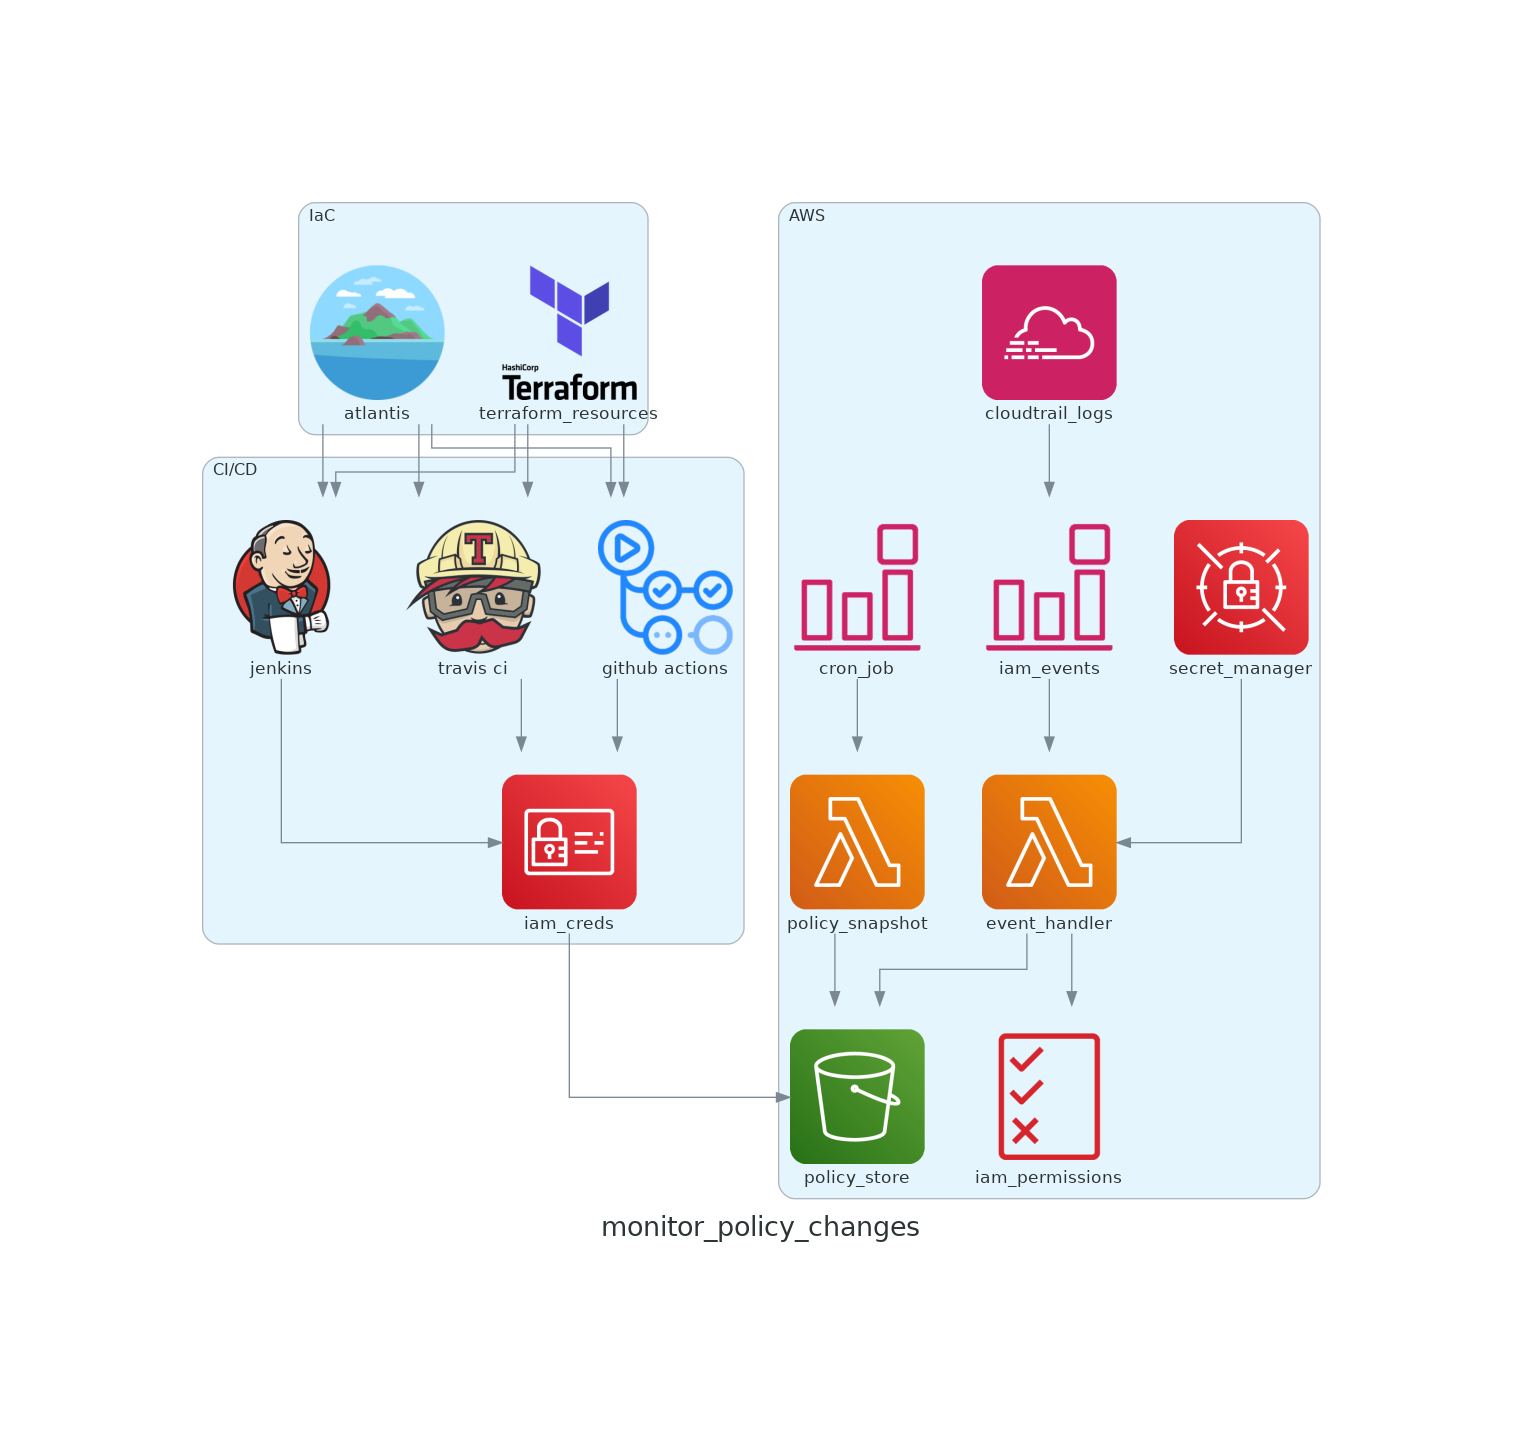
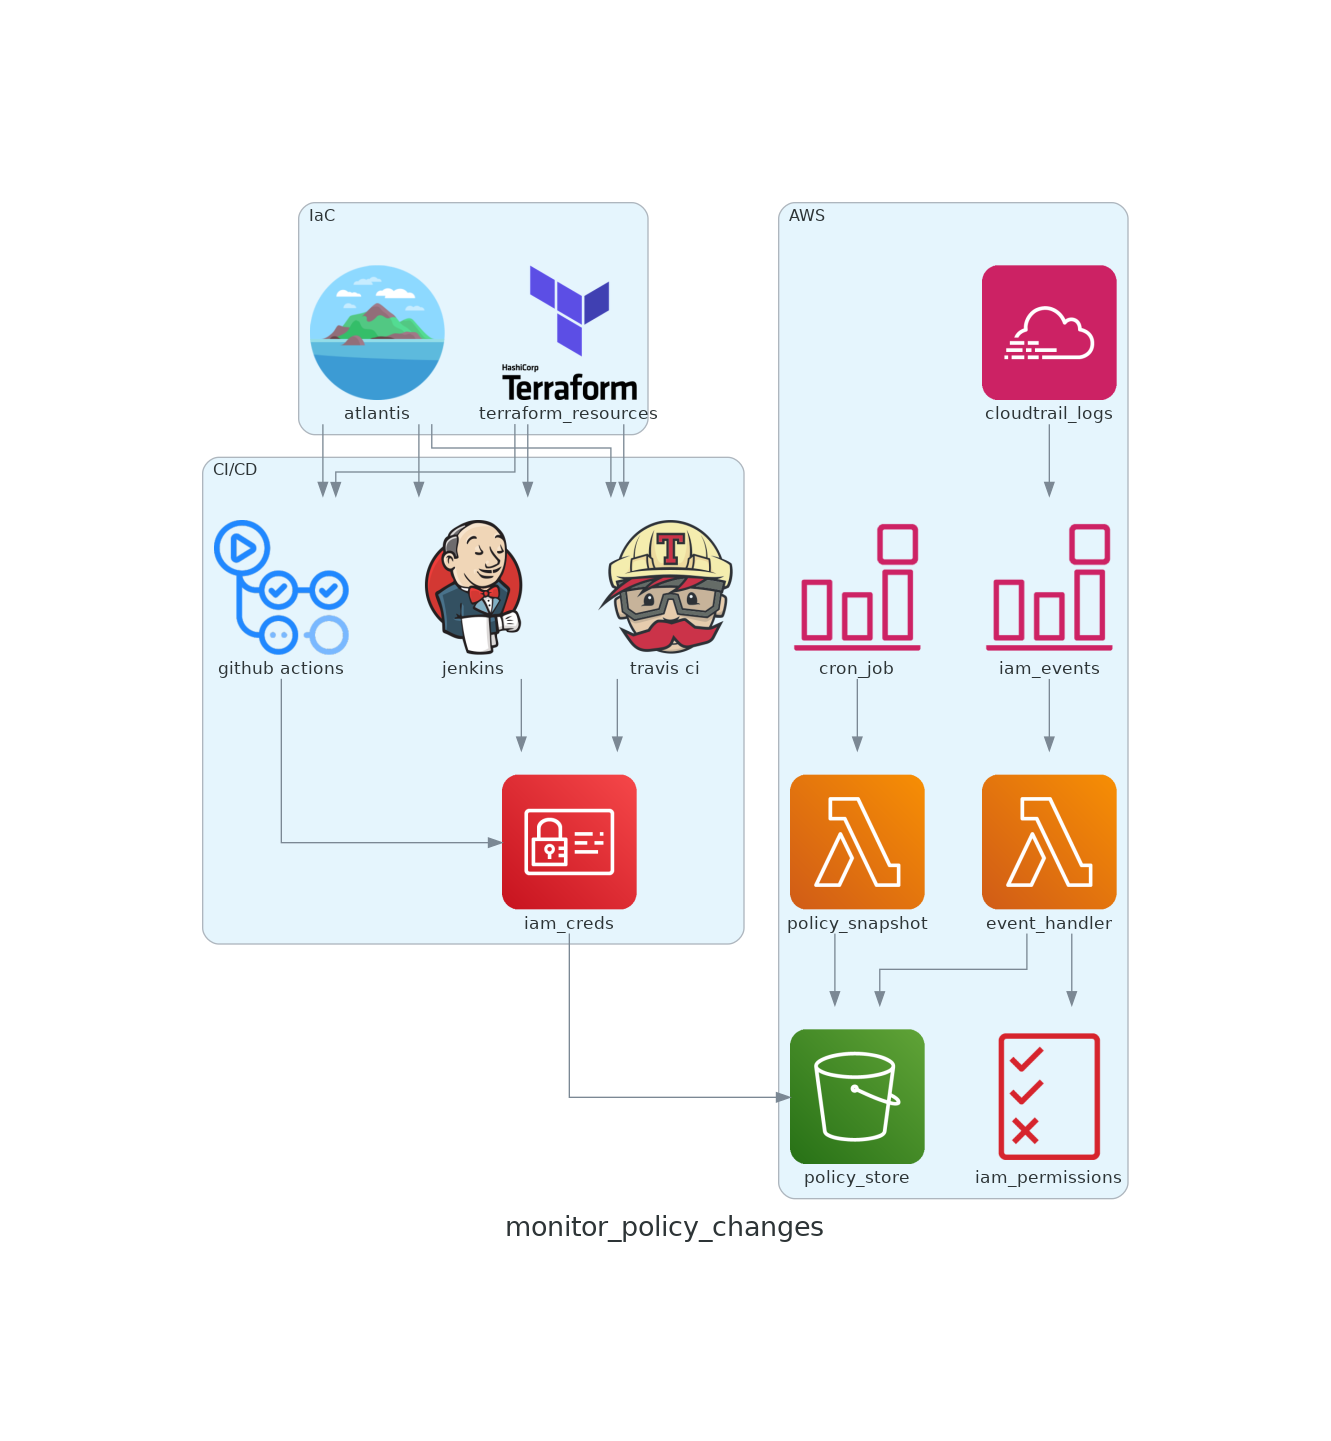
bumped image version

Changed region(s): [[0.1232, 0.1249, 0.8933, 0.8744]]

diff --git a/src/app/diagram/main.py b/src/app/diagram/main.py
@@ -39,8 +39,6 @@ with Diagram(
         handle_policy_event_lambda = Lambda("event_handler")
         snapshot_cron_lambda = Lambda("policy_snapshot")
 
-        secret_manager = SecretsManager("secret_manager")
-
         resource_bucket = S3("policy_store")
         iam_permissions = IAMPermissions("iam_permissions")
 
@@ -65,6 +63,3 @@ with Diagram(
 
     # Lambda functions
     handle_policy_event_lambda >> iam_permissions  # type: ignore
-
-    # Secrets manager
-    secret_manager >> handle_policy_event_lambda  # type: ignore
